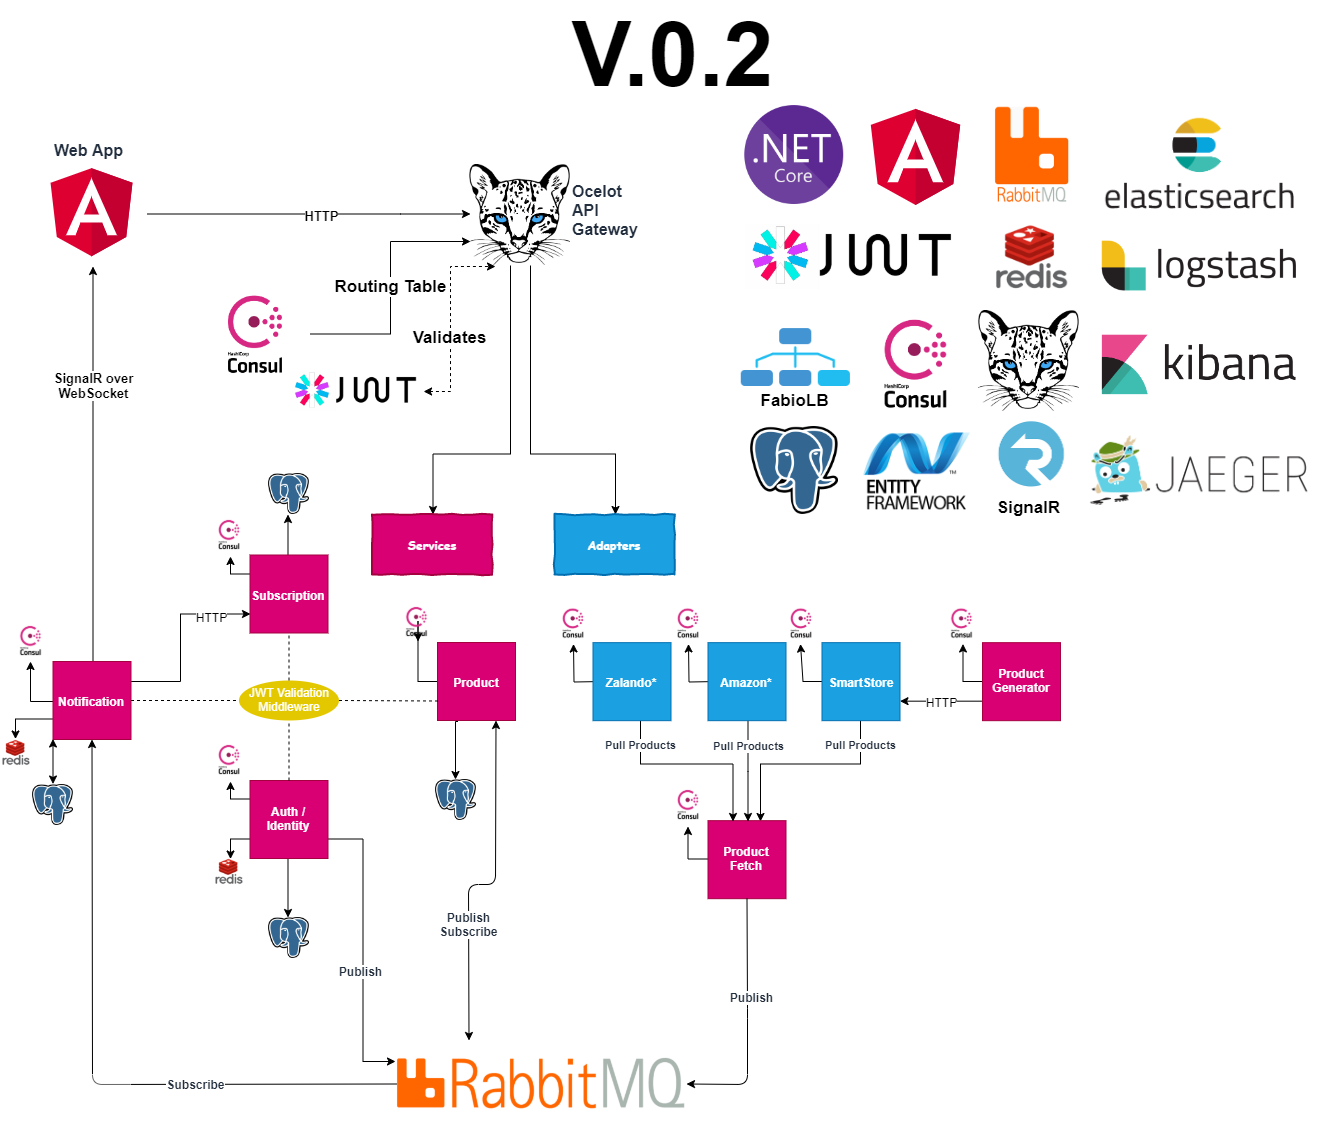
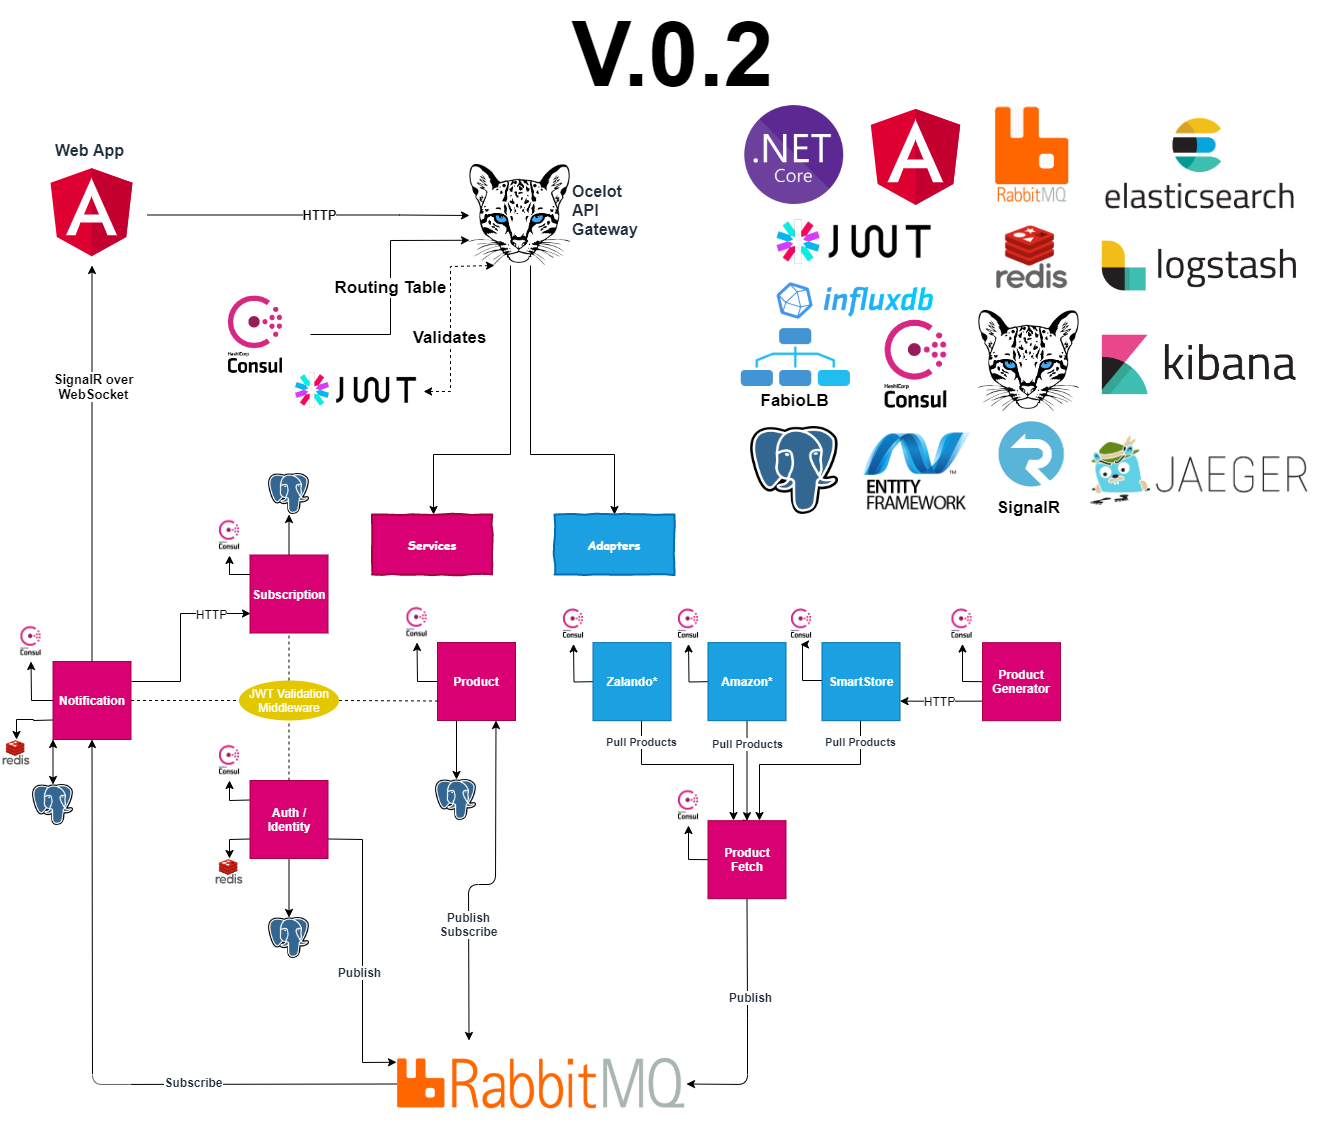
Readme corrected with images

diff --git a/readme.md b/readme.md
@@ -1,9 +1,6 @@
 # UBIQUITOUS. Real-Time Notification Manager.
-- [x] _Open Source_
-- [x] _Distributed Event-Based System with Domain Driven Design approach_
-- [x] _Communication served by RabbitMQ & SignalR_
-- [x] _Heavy load scenarios included_
-
+***.NET Core with Angular on microservices.*** <br> 
+***Subscribe on **newest state** of your products.***   
 
 - [1. Functionalities](#-1-functionalities)
     - [1.1 Purpose](#11-purpose)
@@ -20,8 +17,8 @@
 - [4. Notification Management](#4-notification-management)
     - [4.1 Handling User Subscriptions](#41-handling-user-subscriptions)
 - [5. RoadMap](#5-roadmap)
-    - [5.1. V.0.2](#51-v02)
-    - [5.2. V.0.3](#52-v03)
+    - [5.1. Release V.0.2](#51-release-v02)
+    - [5.2. Release V.0.3](#52-release-v03)
 - [6. Contributing](#6-contributing)
 - [7. Author](#7-author)
 - [8. Inspirations & Thanks](#8-inspirations--thanks)
@@ -53,18 +50,15 @@
         * [x] confirmation, hide, remove
         * [x] welcome notifications specified timespan by user preferences
 - ***Processing & Capabilities***
-    - Distributed processing huge number of products paralelly among different adapters
+    - Distributed processing number of products paralelly among different adapters
 - ***Identity & Authorization*** 
-    - Identity
-        - Ability to _signup, log in, log out, change password_
-        - Identification thanks to jwt token across entire system
+    - Ability to _signup, log in, log out, change password_
+    - Identification & auth thanks to jwt token across entire system
 - ***Admin Management (next versions)*** 
-    - Operations 
-        * [ ] manage products and its details thru product service API
-        * [ ] manage users subscriptions
-        * [ ] manage subscribers notifications
+    * [ ] manage products, users, subscriptions
 ## 1.2 Purpose
-- **prime goal** is/was an education and giving my best around programming topics like 
+
+- primarily, **self-education** is and was my mmotivation, as well as giving my best around topics like 
      - .NET Core
      - DDD
      - Microservices
@@ -73,14 +67,15 @@
      - ...
      - and so much more
 - Secondly **most of repositories** I have visited were
-    - Relatively small, no possibility to run into issues of performance
-    - Easy concerns or well known domain (orders, eShop)
-    - Unfinished
+    - Relatively small, no possibility to run into performance issues 
+    - Easy concerns or well known domain (orders, eShop) or unfinished
     
 ## 1.3 Install
 
-1.3.0. Prerequisites
+<details>
+<summary>Click to expand!</summary>
 
+1.3.0. Prerequisites
     - Docker
     - Docker composer
     
@@ -113,16 +108,21 @@ docker-compose -f docker-compose-services.yml up
 <p align="center">
    <img alt="Portainer dashboard" src="img/Portainer.png" />
 </p>
+
+</details>
     
-## 2. Server Side Architecture
-Whole solution is designed and broken down to
-   - **Frontend** is (being) implemented  in **Angular 7** with **Angular Material** as UI component infrastructure and Material Design components.
-   - **Backend** is (being) written in **.NET Core 2.2**(current stable version). 
+## 2. Server Side
+Whole solution is broken down to
+   - **Frontend** developed with [Angular 7](https://angular.io/)
+   - **Backend** developed with  [.NET Core 2.2](https://docs.microsoft.com/en-us/dotnet/core/). 
+        - **Services** Functionality-oriented e.g.: products, notifications 
+        - **Adapters** Encapsulates shops, wholesales logic and enables communication
+        - **Infrastructure**, external libraries listed in []
 
 Down below, a services dependency diagram. See to #3.1 for listed used technologies, tools and their use.
     
 <p align="center">
-   <img alt="Ubiquitous Service Architecture" src="img/ubiquitous-architecture.png" />
+   <img alt="Containers diagram v0.2" src="img/containers-v.0.2.png" />
 </p>
 
 ### 2.1 Technologies And Patterns
@@ -139,14 +139,14 @@ What you might see in the scope of my project. Things mentioned below are implem
 - CI & CD defined with [***Gitlab DevOps***](https://gitlab.com/)
 - Docker stacks created with [***Docker Compose***](https://docs.docker.com/compose/)
 - API Gateway wtih [***Ocelot***](https://ocelot.readthedocs.io/) with integrated Service Discovery served by [***Consul***](https://www.consul.io/)
-- Websocket push communication (server to client) with [***SignalR***] with [***Redis***](https://redis.io/) backplane
+- Websocket push communication (server to client) with [***SignalR***]() with [***Redis***](https://redis.io/) backplane
 - [***Polly***](https://github.com/App-vNext/Polly) Resiliency policies
 - Message queue [***RabbitMQ***](https://www.rabbitmq.com/) with [***RawRabbit***](https://github.com/pardahlman/RawRabbit) implementation
 - HTTP Call [Load Balancing](https://www.citrix.com/glossary/load-balancing.html) between services with [***Fabio***](https://github.com/fabiolb/fabio)
 
 #### ***V0.2***
 - Monitoring stack thanks by ELK stack ([***Elasticsearch***](https://www.elastic.co/) [***Logstash***](https://www.elastic.co/) [***Kibana***](https://www.elastic.co/))
-- Logging with [***Serilog***](https://serilog.net/) with sink to [***Elasticsearch***](https://www.elastic.co/)
+- Logging with [***Serilog***](https://serilog.net/), [***Elasticsearch***](https://www.elastic.co/)
 - Tracing with [OpenTracing](https://opentracing.io/), [***Jaeger***](https://github.com/jaegertracing/jaeger)
 - Metrics with [AppMetrics](https://www.app-metrics.io/), [***Influx***](https://www.influxdata.com/)
 
@@ -165,17 +165,17 @@ What you might see in the scope of my project. Things mentioned below are implem
 **Modules**
 - ***Event Logs*** 
     - Module with connectivity to database, storing event for any integration event dispatched
-- ***EventBus RabbitMQ*** 
-    - Asynchronous queue shared logic of subscription and publishing
+- ***Event Bus*** 
+    - Asynchronous queue shared logic of subscription and publishing typically for RabbitMQ
 - ***Common*** 
-    - Metrics (Influx)
-    - Tracing (Jaeger)
-    - Logging (Serilog)
-    - Service Discovery (Consul)
-    - Load Balancing (Ocelot, Fabio)
-    - Resiliency (Polly)
-    - Authentication (JWT)
-    - Cache (Redis)
+    - Metrics - [AppMetrics](https://www.app-metrics.io/), [***Influx***](https://www.influxdata.com/)
+    - Tracing - [OpenTracing](https://opentracing.io/), [***Jaeger***](https://github.com/jaegertracing/jaeger)
+    - Logging - [***Serilog***](https://serilog.net/), [***Elasticsearch***](https://www.elastic.co/)
+    - Service Discovery - [***Consul***](https://www.consul.io/)
+    - Load Balancing - [***Ocelot***](https://ocelot.readthedocs.io/), [***Fabio***](https://github.com/fabiolb/fabio)
+    - Resiliency [***Polly***]()
+    - Authentication [***JWT***]()
+    - Cache [***Redis***]()
     - Pagination
         
 ### 2.4 API - Front communication
@@ -209,7 +209,9 @@ Each service is self registering to the Consul registry, containing every active
    <img alt="Consul Service Discovery" src="img/Consul.png" />
 </p>
         
-## 3. Client Side Overview
+## 3. Client Side
+
+
 
 <p align="center">
    <img alt="Dashboard" src="img/ubiquitous-current-state.png" />
@@ -227,18 +229,15 @@ Each service is self registering to the Consul registry, containing every active
    <img alt="Products tabs" src="img/Products.png" />
 </p>
 
-### 3.1 Client Side technologies and tools
-- ***Angular 7***
-- ***Angular Material*** 
-- ***Bootstrap*** 
-- ***ChartistJS*** 
-- ***RxJS***
-- ***SignalR***
+### 3.1 Technologies and tools
+
+- Entire web app is written in [***Angular 7***](https://angular.io/) with [Angular Material](https://material.angular.io/), [***Bootstrap*** ](https://getbootstrap.com/)
+- Communication is done with  [***Rx.JS***](https://rxjs-dev.firebaseapp.com/) and [***SignalR***]()
+- Charts rendered with [***ChartistJS***](https://gionkunz.github.io/chartist-js/) 
 
 ## 4. Notification Management
 
 _To be determined_
-
 
 ### 4.1 Handling User Subscriptions
 
@@ -277,9 +276,9 @@ _To be determined_
 |Notifications by email|Low||||
 |Security (HTTPS)|Low||||
 
-### 5.1 V.0.2
+### 5.1 Release V.0.2
 
-Next version will bring
+Release V0.2 brings
 + Heavily extended readme with graphics
 + Elasticsearch, Logstash, Kibana
 + AppMetrics, Influx
@@ -288,13 +287,10 @@ Next version will bring
 + Routing fixes
 + Preferences page fix
 
-<p align="center">
-   <img alt="Containers diagram v0.2" src="img/containers-v.0.2.png" />
-</p>
 
-### 5.2 V.0.3
+### 5.2 Release V.0.3
 
-Version scope shall bring
+Release V0.2 scope shall bring
 
 + Moved major load of determining product's change from Product Service to Adapter
 + Adapters Management Service
@@ -306,7 +302,7 @@ Version scope shall bring
 Below diagram depicts change between upper, current (v.0.1, v.0.2) adapters architecture and below (v.0.3) with newest structure and data flow.
 
 <p align="center">
-    <img alt="Containers diagram v0.2" src="img/adapters-v.0.2.png" />
+    <img alt="Containers diagram v0.3" src="img/adapters-v.0.3.png" />
 </p>
 
 
